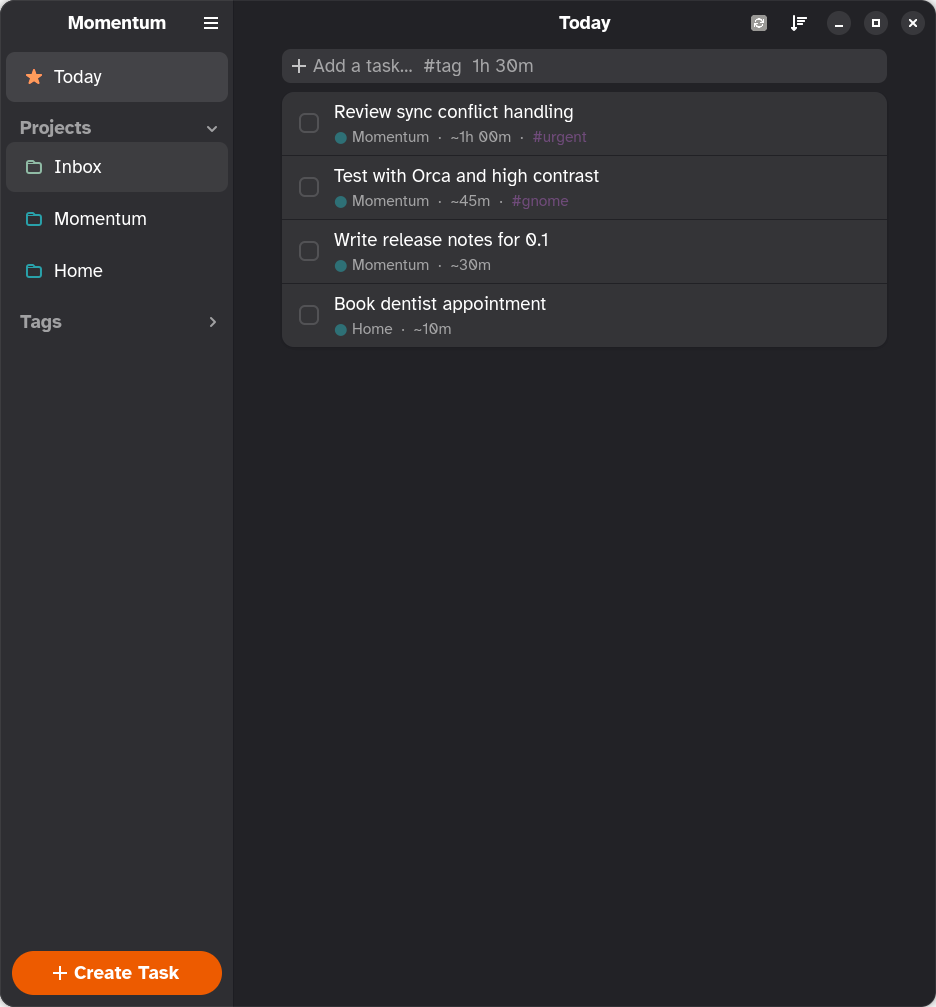
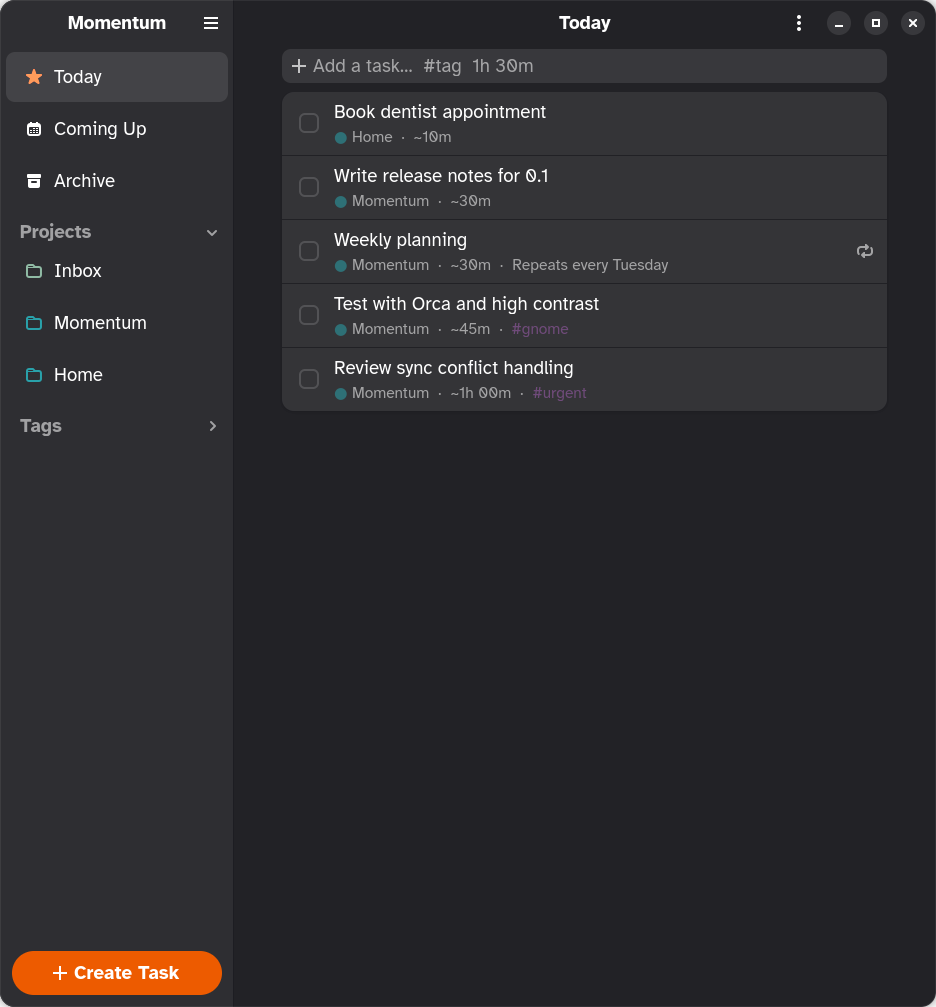
Demo data for repeats and Coming Up; screenshots; README and metainfo updates

diff --git a/crates/app/src/demo.rs b/crates/app/src/demo.rs
@@ -42,6 +42,42 @@ pub fn store(dir: std::path::PathBuf) -> Store {
     ] {
         s.dispatch(a);
     }
+    // Upcoming tasks and a weekly repeat, so Coming Up and the repeat badge have something to show.
+    let plus = |n: i64| day_str(day_number(&today).unwrap() + n);
+    for (title, days) in [
+        ("Renew passport", 1),
+        ("Team retrospective", 1),
+        ("Water the plants", 3),
+        ("Pay rent", 6),
+    ] {
+        let mut t = Task::new(title, &hid);
+        t.due_day = Some(plus(days));
+        s.dispatch(Action::AddTask { task: t, bottom: true });
+    }
+    let cfg = RepeatCfg {
+        id: "demo-weekly".into(),
+        project_id: Some(wid.clone()),
+        title: Some("Weekly planning".into()),
+        repeat_cycle: "WEEKLY".into(),
+        repeat_every: 1,
+        start_date: Some("2026-01-05".into()),
+        default_estimate: Some(1_800_000.0),
+        ..Default::default()
+    };
+    let mut cfg = cfg;
+    let wd = weekday(day_number(&today).unwrap()) as usize;
+    let flags = [
+        &mut cfg.sunday,
+        &mut cfg.monday,
+        &mut cfg.tuesday,
+        &mut cfg.wednesday,
+        &mut cfg.thursday,
+        &mut cfg.friday,
+        &mut cfg.saturday,
+    ];
+    *flags[wd] = true;
+    s.state.task_repeat_cfg.insert("demo-weekly", cfg);
+    s.save().ok();
     s
 }
 

diff --git a/crates/app/src/window.rs b/crates/app/src/window.rs
@@ -561,6 +561,10 @@ impl MomentumWindow {
             if std::env::var_os("MOMENTUM_SCREENSHOT_DIALOG").is_some() {
                 self.new_task_dialog();
             }
+            if std::env::var_os("MOMENTUM_SCREENSHOT_UPCOMING").is_some() {
+                *imp.view.borrow_mut() = View::Upcoming;
+                self.refresh();
+            }
             if std::env::var_os("MOMENTUM_SCREENSHOT_TAG").is_some() {
                 imp.add_entry.grab_focus();
                 imp.add_entry.set_text("Write the docs #");
